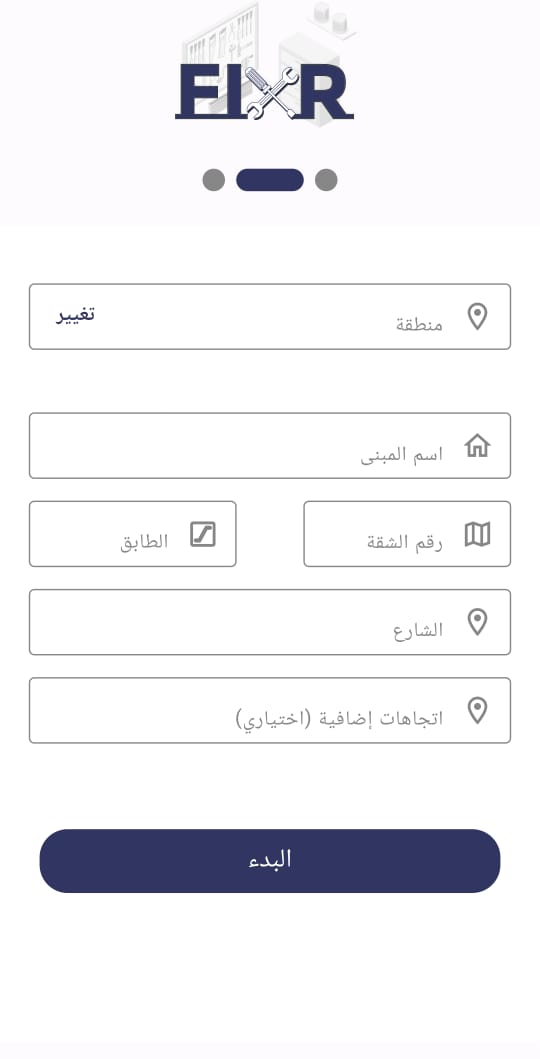
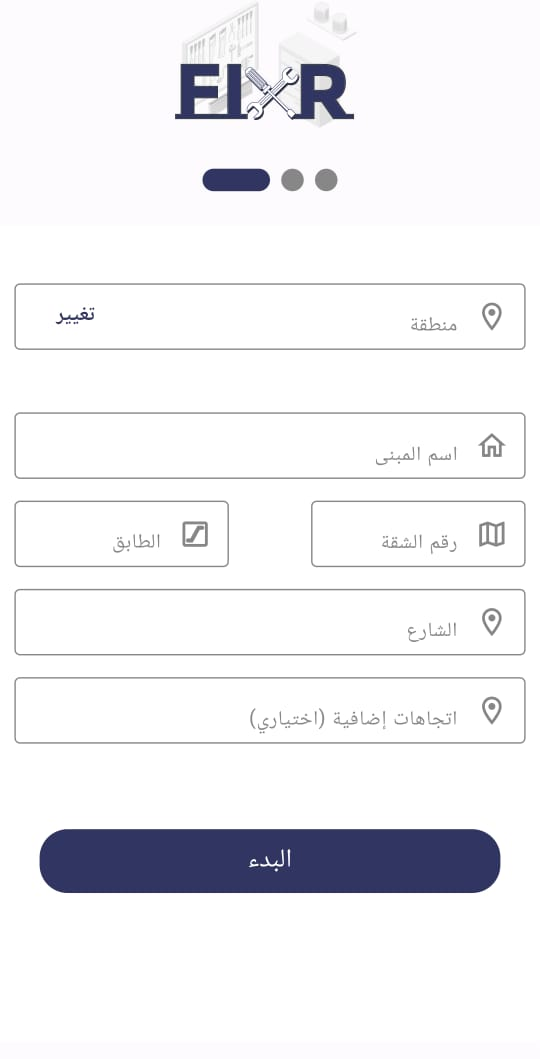
editing readme commit

diff --git a/lib/features/user_signup/presentation/views/widgets/user_address_view.dart b/lib/features/user_signup/presentation/views/widgets/user_address_view.dart
@@ -38,7 +38,7 @@ class UserAddressView extends StatelessWidget {
             height:55.h,
             child: Row(
               // crossAxisAlignment: CrossAxisAlignment.start,
-              // mainAxisAlignment: MainAxisAlignment.spaceEvenly,
+              mainAxisAlignment: MainAxisAlignment.spaceBetween,
               children: [
                 AddressTextFieldModel(width:165.w,labeltext: S.of(context).Aptartment, icons: const Icon(Icons.map_outlined )),
                 AddressTextFieldModel(width:165.w,labeltext: S.of(context).floor, icons: const Icon(Icons.escalator_outlined)),

diff --git a/lib/features/user_signup/presentation/views/widgets/text_field_model.dart b/lib/features/user_signup/presentation/views/widgets/text_field_model.dart
@@ -15,7 +15,7 @@ class AddressTextFieldModel extends StatelessWidget {
   @override
   Widget build(BuildContext context) {
     return Container(
-      padding: EdgeInsets.symmetric(horizontal: 10.w, vertical: 3.h),
+      padding: EdgeInsets.symmetric(horizontal: 15.w, vertical: 3.h),
       height: 55.h,
       width: width.w,
       child: TextFormField(
